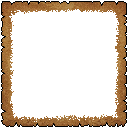
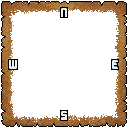
Final

diff --git a/sources/cub3d.h b/sources/cub3d.h
@@ -6,7 +6,7 @@
 /*   By: tjorge-d <tiagoscp2020@gmail.com>          +#+  +:+       +#+        */
 /*                                                +#+#+#+#+#+   +#+           */
 /*   Created: 2024/04/24 09:30:19 by tjorge-d          #+#    #+#             */
-/*   Updated: 2024/05/21 11:49:47 by tjorge-d         ###   ########.fr       */
+/*   Updated: 2024/05/21 12:27:29 by tjorge-d         ###   ########.fr       */
 /*                                                                            */
 /* ************************************************************************** */
 
@@ -32,17 +32,17 @@
 # define UI_SCALE 3
 # define TRANSPARENT 16777215
 # define SIZE 64
-# define X_RES 3820
-# define Y_RES 1900
+# define X_RES 1920
+# define Y_RES 1080
 # define SPEED 0.05
 # define SENSITIVITY 50
 # define M_PI 3.14159265358979323846
-# define FRAME_RATE 120
+# define FRAME_RATE 60
 # define WALL_HEIGHT 50
 # define FOV 72
 # define MAP_RANGE 4
 # define PIXEL_SKIP 0
-# define HAND_SIZE 28
+# define HAND_SIZE 14
 # define FAT 0.25
 # define ASSET_NUMBER 16
 # define IMG_NUMBER 3
@@ -191,8 +191,6 @@ typedef struct s_cub
 	int					floor;
 	int					ceiling;
 	t_ray				ray;
-	int					offset_tool[4][3];
-	int					*offset;
 }	t_cub;
 
 typedef struct s_line

diff --git a/sources/main/initializer.c b/sources/main/initializer.c
@@ -6,7 +6,7 @@
 /*   By: tjorge-d <tiagoscp2020@gmail.com>          +#+  +:+       +#+        */
 /*                                                +#+#+#+#+#+   +#+           */
 /*   Created: 2024/04/24 12:20:02 by tjorge-d          #+#    #+#             */
-/*   Updated: 2024/05/21 11:20:39 by tjorge-d         ###   ########.fr       */
+/*   Updated: 2024/05/21 12:24:44 by tjorge-d         ###   ########.fr       */
 /*                                                                            */
 /* ************************************************************************** */
 
@@ -23,19 +23,6 @@ static void	set_tools(t_cub *cub)
 	cub->player.mov_tool[1][0] = 270;
 	cub->player.mov_tool[0][0] = 315;
 	cub->player.mov_tool[1][1] = -1;
-	cub->offset_tool[0][0] = 1;
-	cub->offset_tool[0][1] = 0;
-	cub->offset_tool[0][2] = 0;
-	cub->offset_tool[1][0] = 2;
-	cub->offset_tool[1][1] = 1;
-	cub->offset_tool[1][2] = 0;
-	cub->offset_tool[2][0] = 3;
-	cub->offset_tool[2][1] = 1;
-	cub->offset_tool[2][2] = 1;
-	cub->offset_tool[3][0] = 0;
-	cub->offset_tool[3][1] = 0;
-	cub->offset_tool[3][2] = 1;
-	cub->offset = cub->offset_tool[0]; 
 }
 
 static void	set_layout(t_cub *cub)

diff --git a/sources/physics/dda_utils.c b/sources/physics/dda_utils.c
@@ -6,7 +6,7 @@
 /*   By: tjorge-d <tiagoscp2020@gmail.com>          +#+  +:+       +#+        */
 /*                                                +#+#+#+#+#+   +#+           */
 /*   Created: 2024/05/20 15:51:28 by dcota-pa          #+#    #+#             */
-/*   Updated: 2024/05/20 16:18:39 by tjorge-d         ###   ########.fr       */
+/*   Updated: 2024/05/21 12:29:01 by tjorge-d         ###   ########.fr       */
 /*                                                                            */
 /* ************************************************************************** */
 
@@ -39,9 +39,9 @@ int	coordinate_x_text(t_cub *cub, t_ray *ray, double wall_x, int asset_n)
 int	get_wall_direction(t_ray *ray)
 {
 	if (ray->dir_y < 0 && ray->side_hit == 1)
-		return (SOUTH);
-	else if (ray->side_hit == 1)
 		return (NORTH);
+	else if (ray->side_hit == 1)
+		return (SOUTH);
 	else if (ray->dir_x > 0)
 		return (EAST);
 	else

diff --git a/sources/display/painting_tools.c b/sources/display/painting_tools.c
@@ -6,7 +6,7 @@
 /*   By: tjorge-d <tiagoscp2020@gmail.com>          +#+  +:+       +#+        */
 /*                                                +#+#+#+#+#+   +#+           */
 /*   Created: 2024/01/18 17:48:46 by tjorge-d          #+#    #+#             */
-/*   Updated: 2024/05/21 11:53:58 by tjorge-d         ###   ########.fr       */
+/*   Updated: 2024/05/21 12:25:39 by tjorge-d         ###   ########.fr       */
 /*                                                                            */
 /* ************************************************************************** */
 
@@ -16,14 +16,10 @@ unsigned int	get_color(t_image *img, int x, int y)
 {
 	char	*dst;
 
-	if ( x >= img->w)
-	{
+	if (x >= img->w)
 		x = x % img->w;
-	}
 	if (y >= img->h)
-	{
 		y = y % img->h;
-	}
 	dst = img->addr + (y * img->line_length + x * (img->bpp / 8));
 	return (*(unsigned int *)dst);
 }

diff --git a/sources/display/frame.c b/sources/display/frame.c
@@ -6,7 +6,7 @@
 /*   By: tjorge-d <tiagoscp2020@gmail.com>          +#+  +:+       +#+        */
 /*                                                +#+#+#+#+#+   +#+           */
 /*   Created: 2024/05/10 16:19:08 by tjorge-d          #+#    #+#             */
-/*   Updated: 2024/05/21 11:21:09 by tjorge-d         ###   ########.fr       */
+/*   Updated: 2024/05/21 12:27:07 by tjorge-d         ###   ########.fr       */
 /*                                                                            */
 /* ************************************************************************** */
 
@@ -39,5 +39,4 @@ void	build_frame(t_cub *cub)
 	render_minimap(cub);
 	render_weapon(cub);
 	mlx_put_image_to_window(cub->mlx, cub->window, cub->img[FRAME].img, 0, 0);
-	cub->offset = cub->offset_tool[cub->offset[0]];
 }
